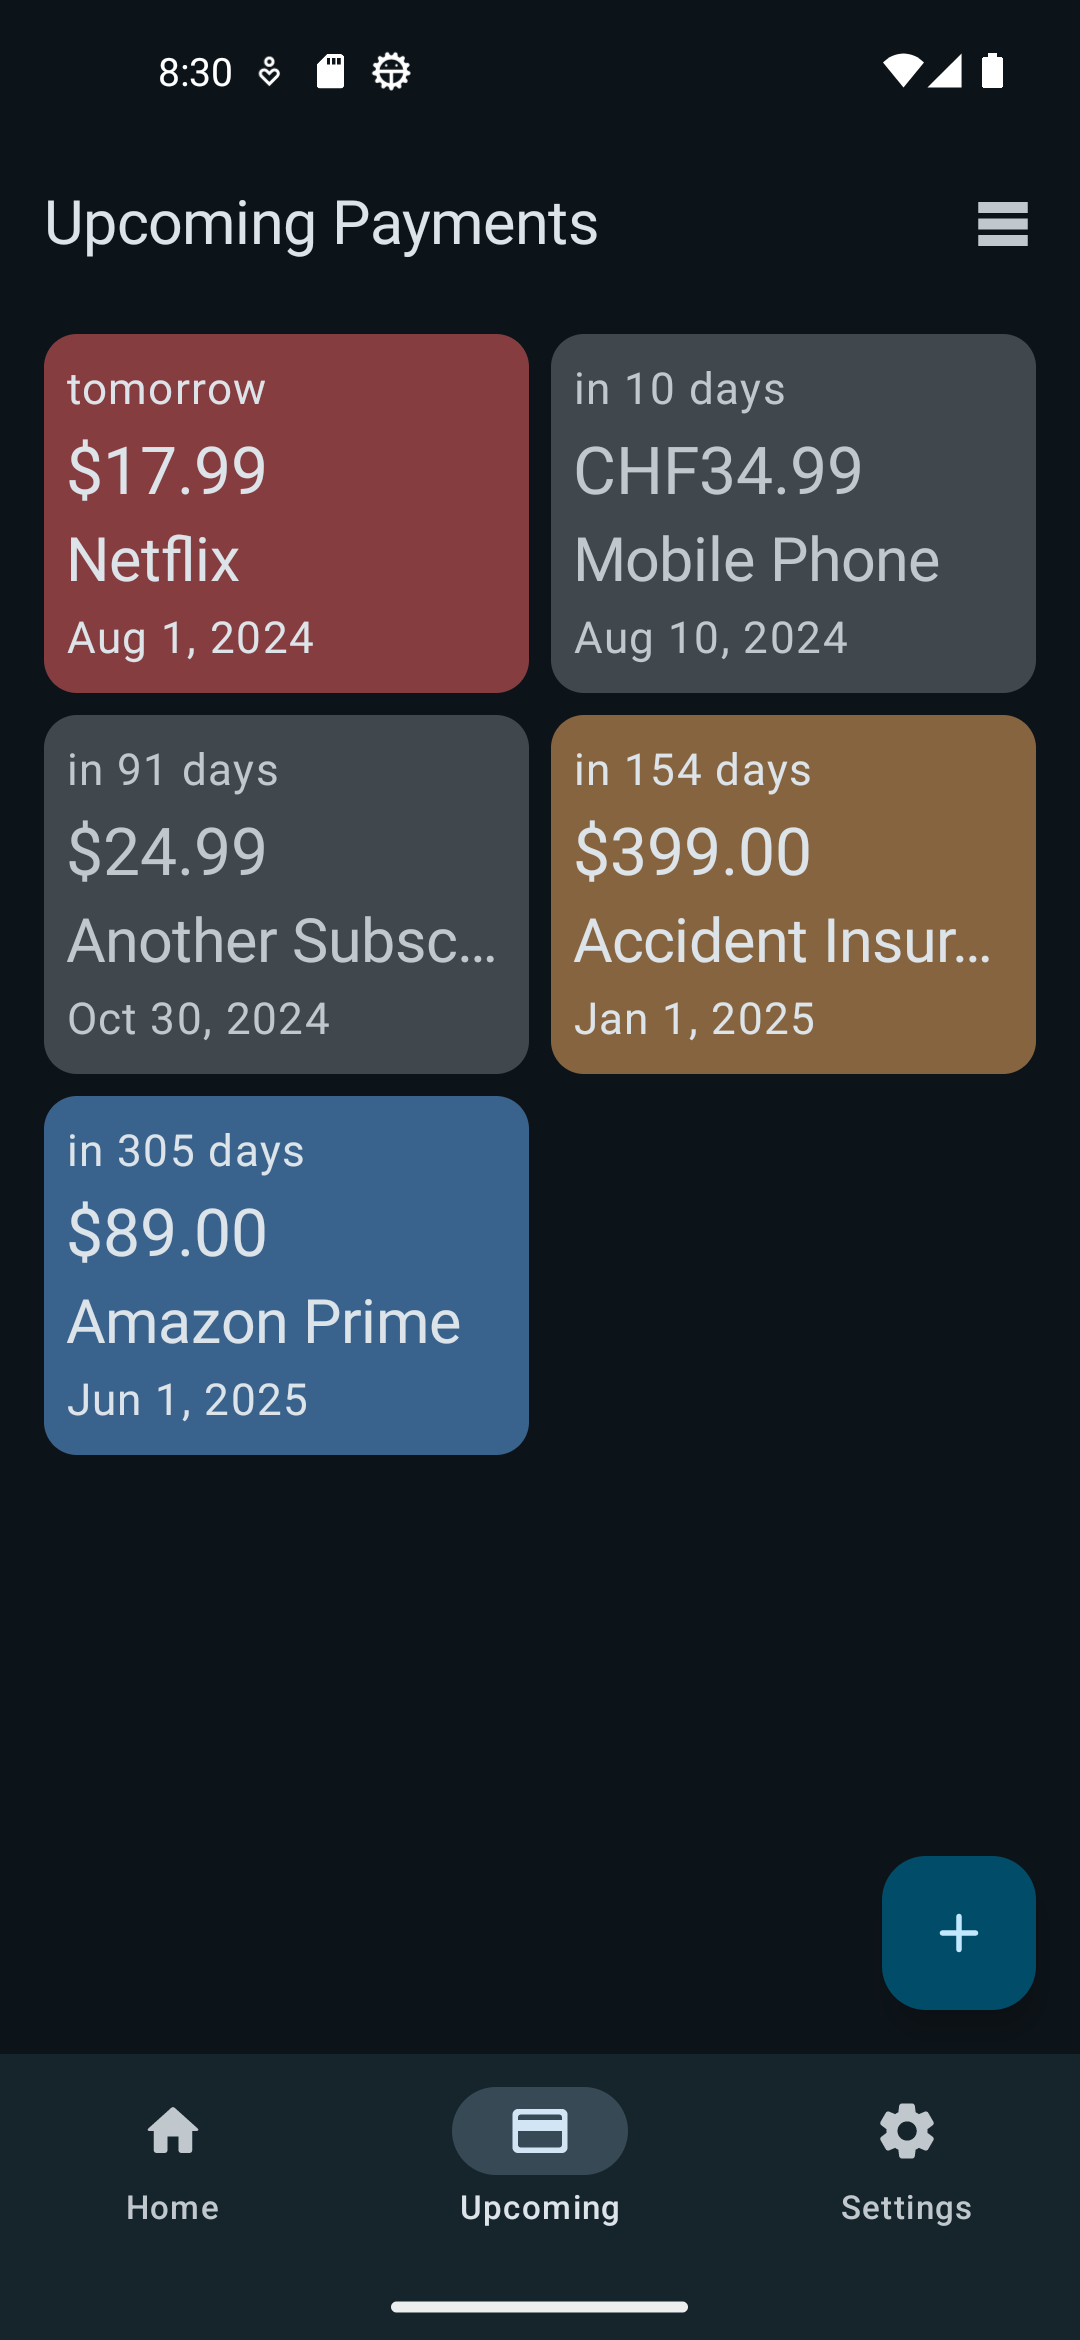
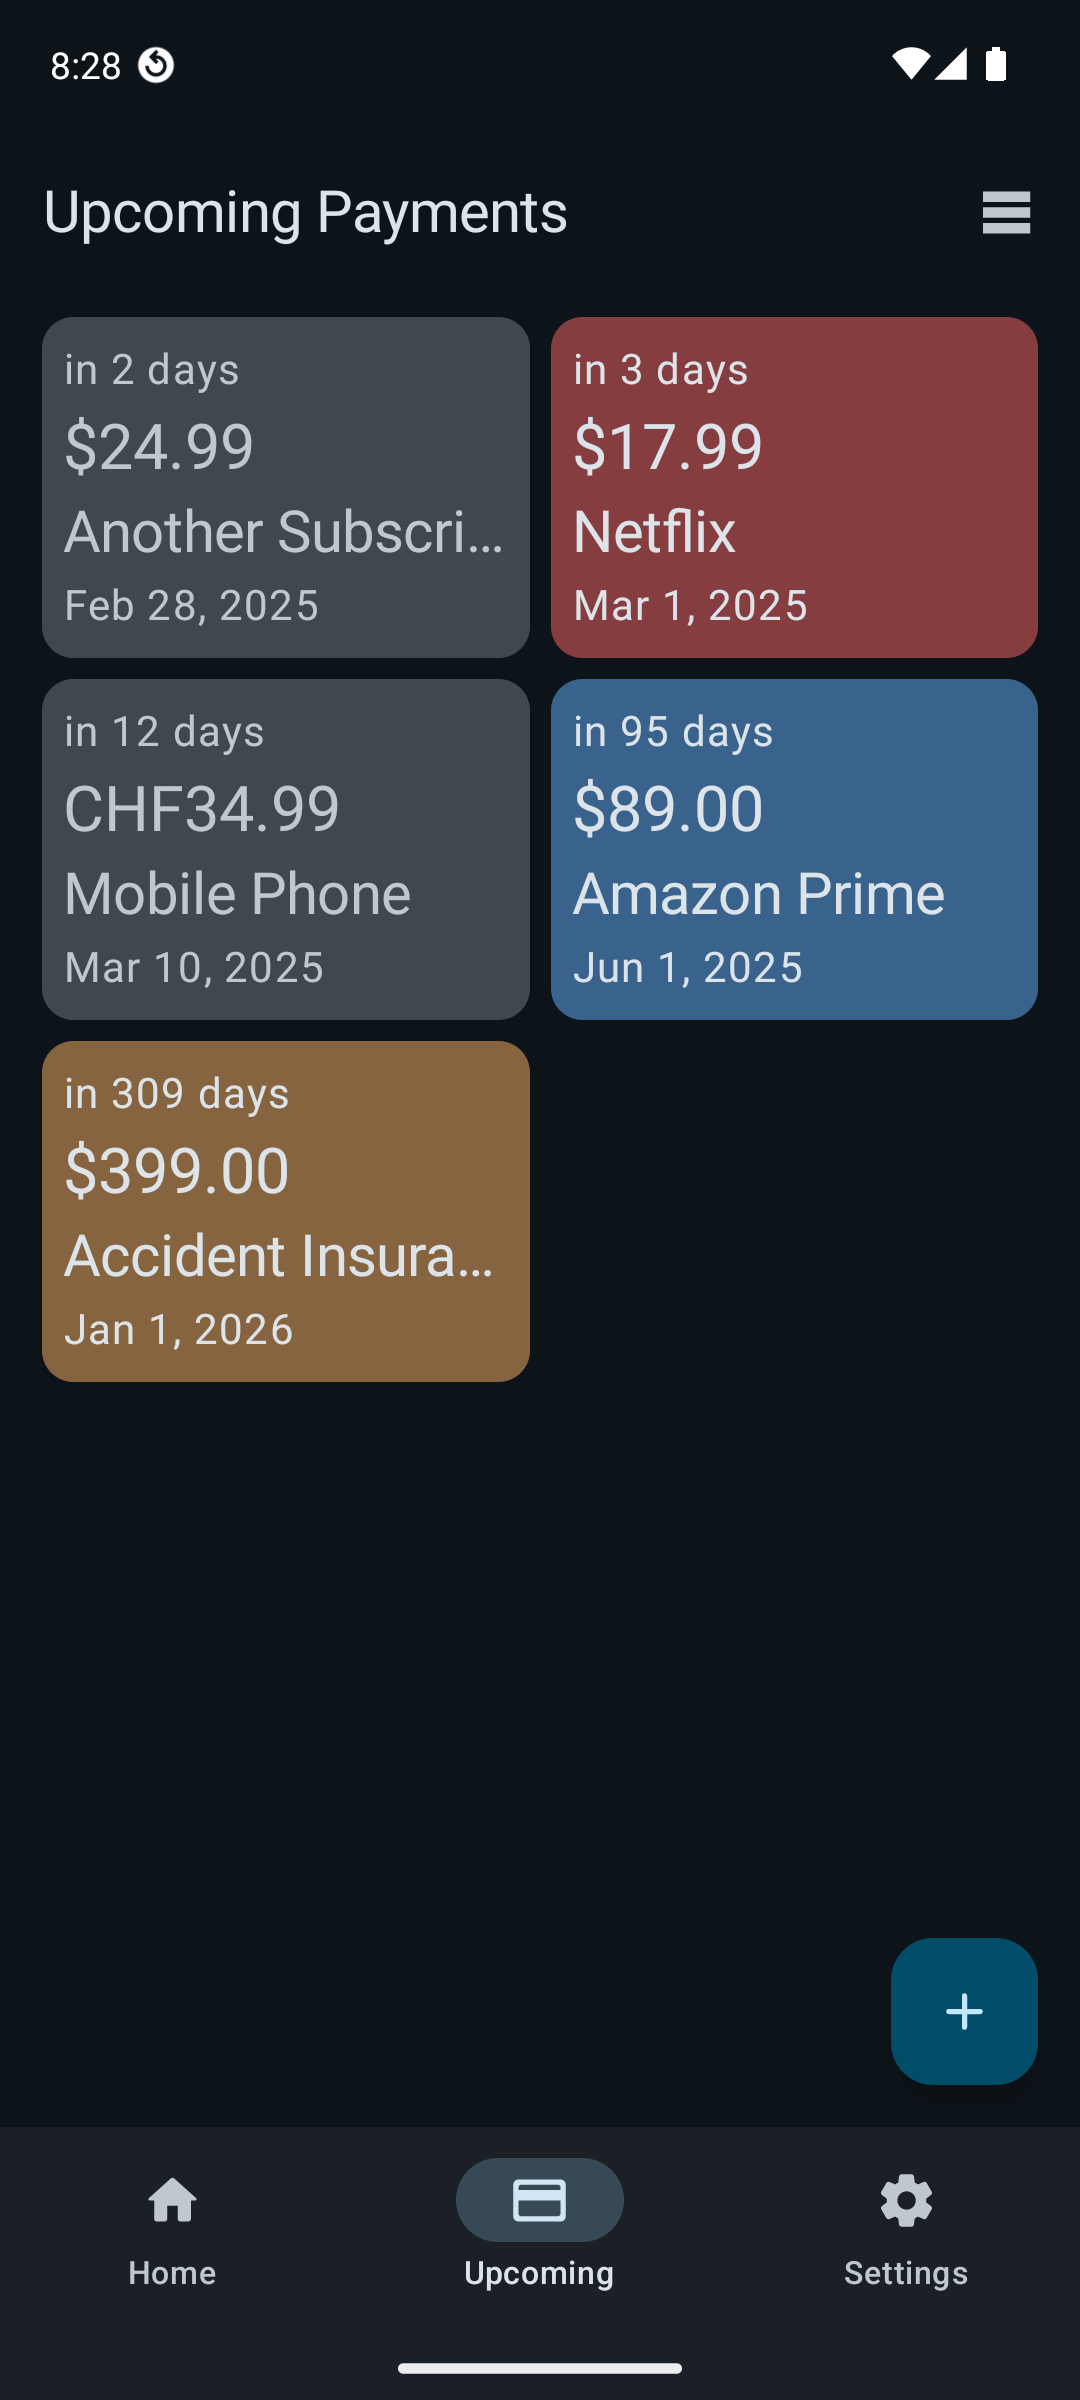
Create new release 0.13.0
This adds notification support
Update screenshots
Update minsdkVersion to 26

diff --git a/README.md b/README.md
@@ -46,7 +46,7 @@ The app compiles and works for all 3 desktop OS platforms. I'll look into how to
   <tr>
     <td><img src="fastlane/metadata/android/en-US/images/phoneScreenshots/04.png"/></td>
     <td><img src="fastlane/metadata/android/en-US/images/phoneScreenshots/05.png"/></td>
-    <td></td>
+    <td><img src="fastlane/metadata/android/en-US/images/phoneScreenshots/06.png"/></td>
   </tr>
 </table>
 
